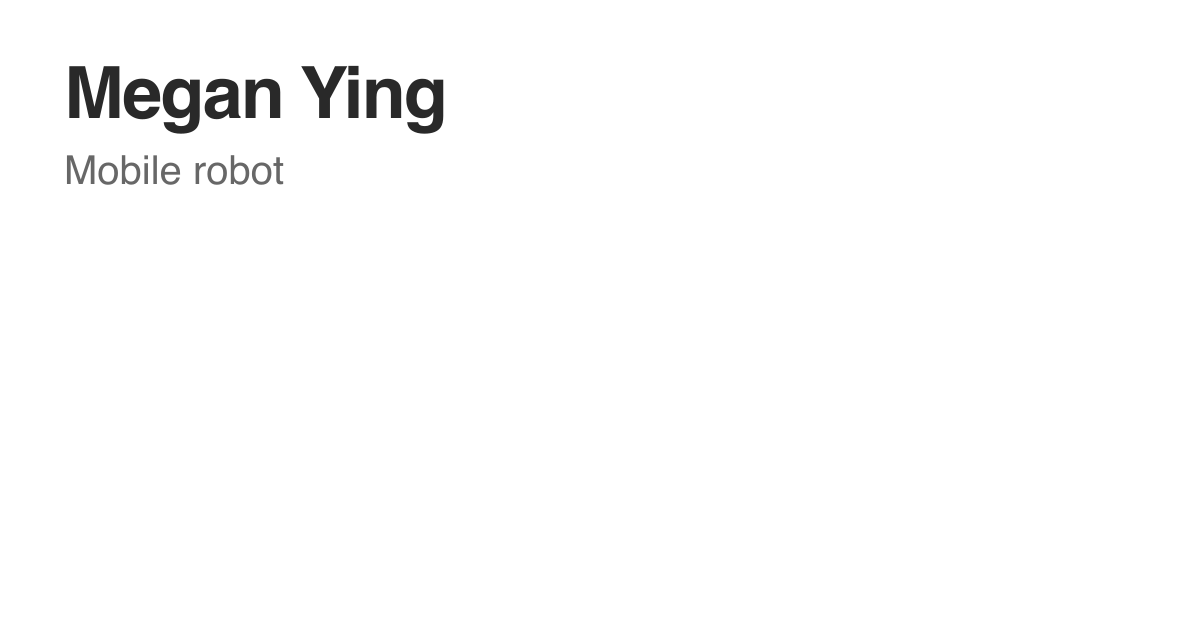
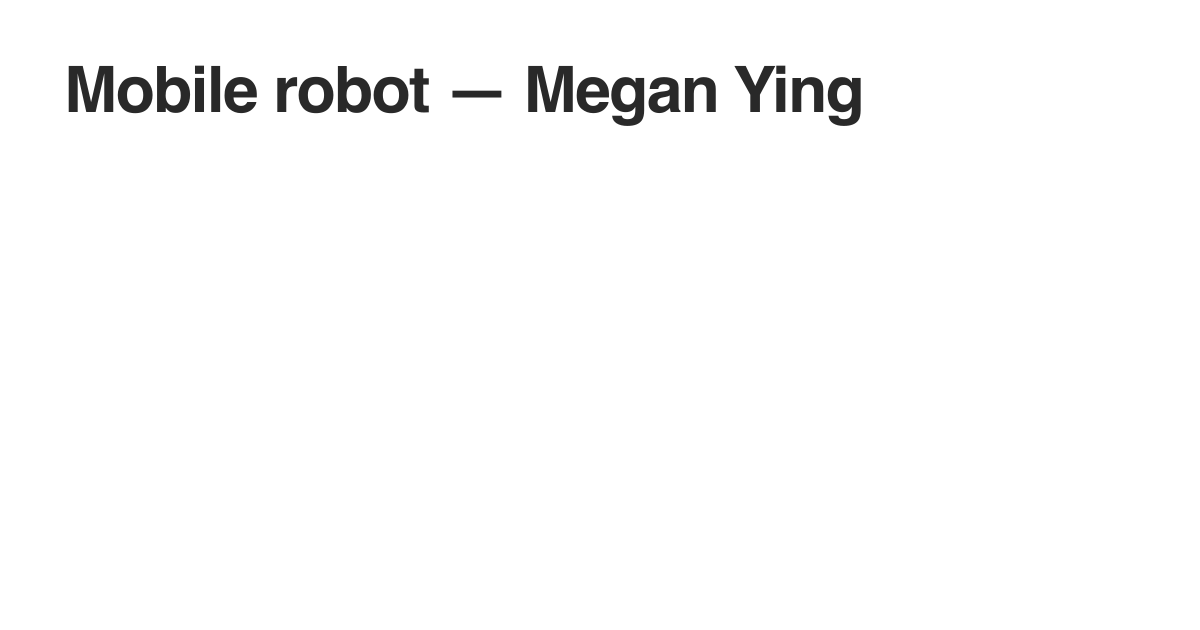
Match project link preview headings to browser tab titles

Changed region(s): [[0.0617, 0.0905, 0.74, 0.2111], [0.0308, 0.2413, 0.2467, 0.3016]]

diff --git a/lib/site.ts b/lib/site.ts
@@ -13,11 +13,15 @@ export const site = {
   },
 };
 
+export function pageTitle(title: string) {
+  return title === site.name ? site.name : `${title} — ${site.name}`;
+}
+
 export function projectPreviewImage(project: Pick<Project, "slug" | "title">) {
   return {
     ...site.previewImage,
     url: `/assets/photos/previews/${project.slug}.png`,
-    alt: `${site.name} — ${project.title}`,
+    alt: pageTitle(project.title),
   };
 }
 
@@ -27,7 +31,7 @@ export function pageMetadata(
   path: string,
   previewImage = site.previewImage,
 ): Metadata {
-  const fullTitle = title === site.name ? site.name : `${title} — ${site.name}`;
+  const fullTitle = pageTitle(title);
   return {
     title: title === site.name ? { absolute: site.name } : title,
     description,

diff --git a/app/layout.tsx b/app/layout.tsx
@@ -1,12 +1,12 @@
 import type { Metadata } from "next";
 import type { ReactNode } from "react";
-import { site } from "@/lib/site";
+import { pageTitle, site } from "@/lib/site";
 import "@/styles/tokens.css";
 import "@/styles/globals.css";
 
 export const metadata: Metadata = {
   metadataBase: new URL(site.url),
-  title: { default: site.name, template: `%s — ${site.name}` },
+  title: { default: site.name, template: pageTitle("%s") },
   description: site.description,
 };
 

diff --git a/README.md b/README.md
@@ -54,7 +54,7 @@ The presentation viewer retains its buttons, arrow-key navigation, live slide co
 
 ## Link preview and icons
 
-All link previews are 1200 × 630 px with “Megan Ying” in the upper-left corner, using the site’s charcoal sans-serif type on white. The homepage preview at `public/assets/photos/portfolio-preview.png` displays only the name. Each project has its own preview at `public/assets/photos/previews/<slug>.png`, with its title below the name in muted gray. Open Graph and Twitter metadata reference the corresponding image through `lib/site.ts`.
+All link previews are 1200 × 630 px with a single heading in the upper-left corner, using the site’s charcoal sans-serif type on white. The homepage preview at `public/assets/photos/portfolio-preview.png` displays only “Megan Ying”. Each project has its own preview at `public/assets/photos/previews/<slug>.png`, with the same title as its browser tab, such as “Battery door — Megan Ying”. Browser tab titles, Open Graph and Twitter titles, and preview alt text use the same formatter in `lib/site.ts`.
 
 Next.js adds the browser and home-screen icon metadata from `app/icon.svg`, `app/favicon.ico`, and `app/apple-icon.png`. The ICO includes 16, 32, and 48 px fallbacks; the Apple icon is 180 × 180 px. SVG and Apple icon URLs receive Next.js-generated fingerprints.
 
